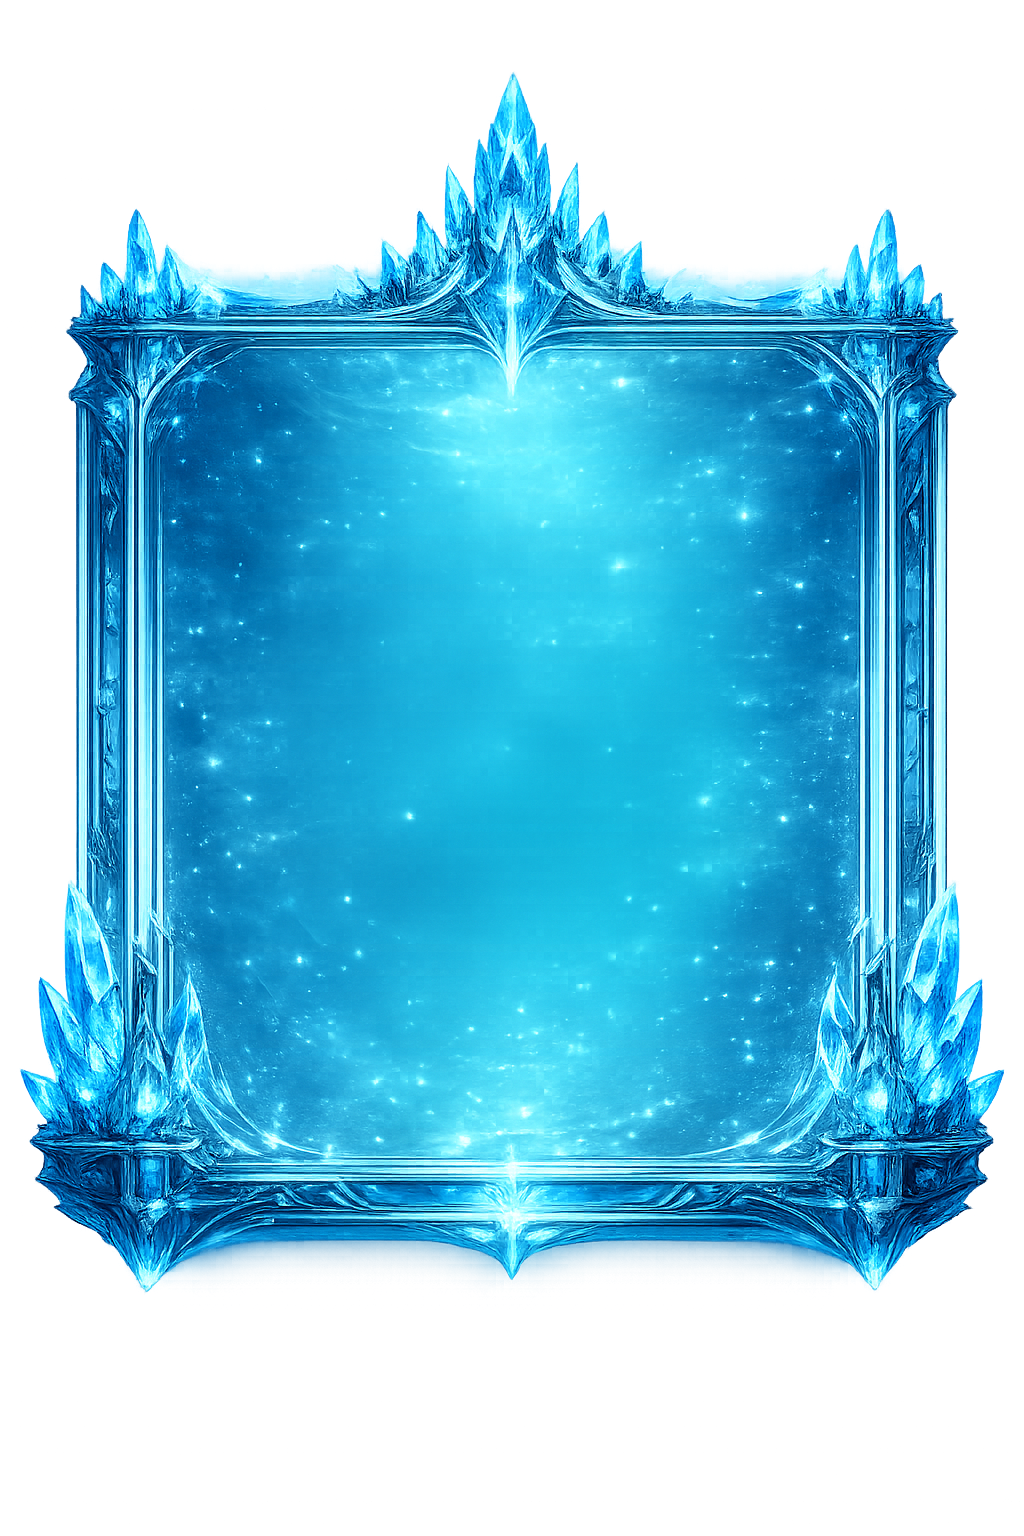
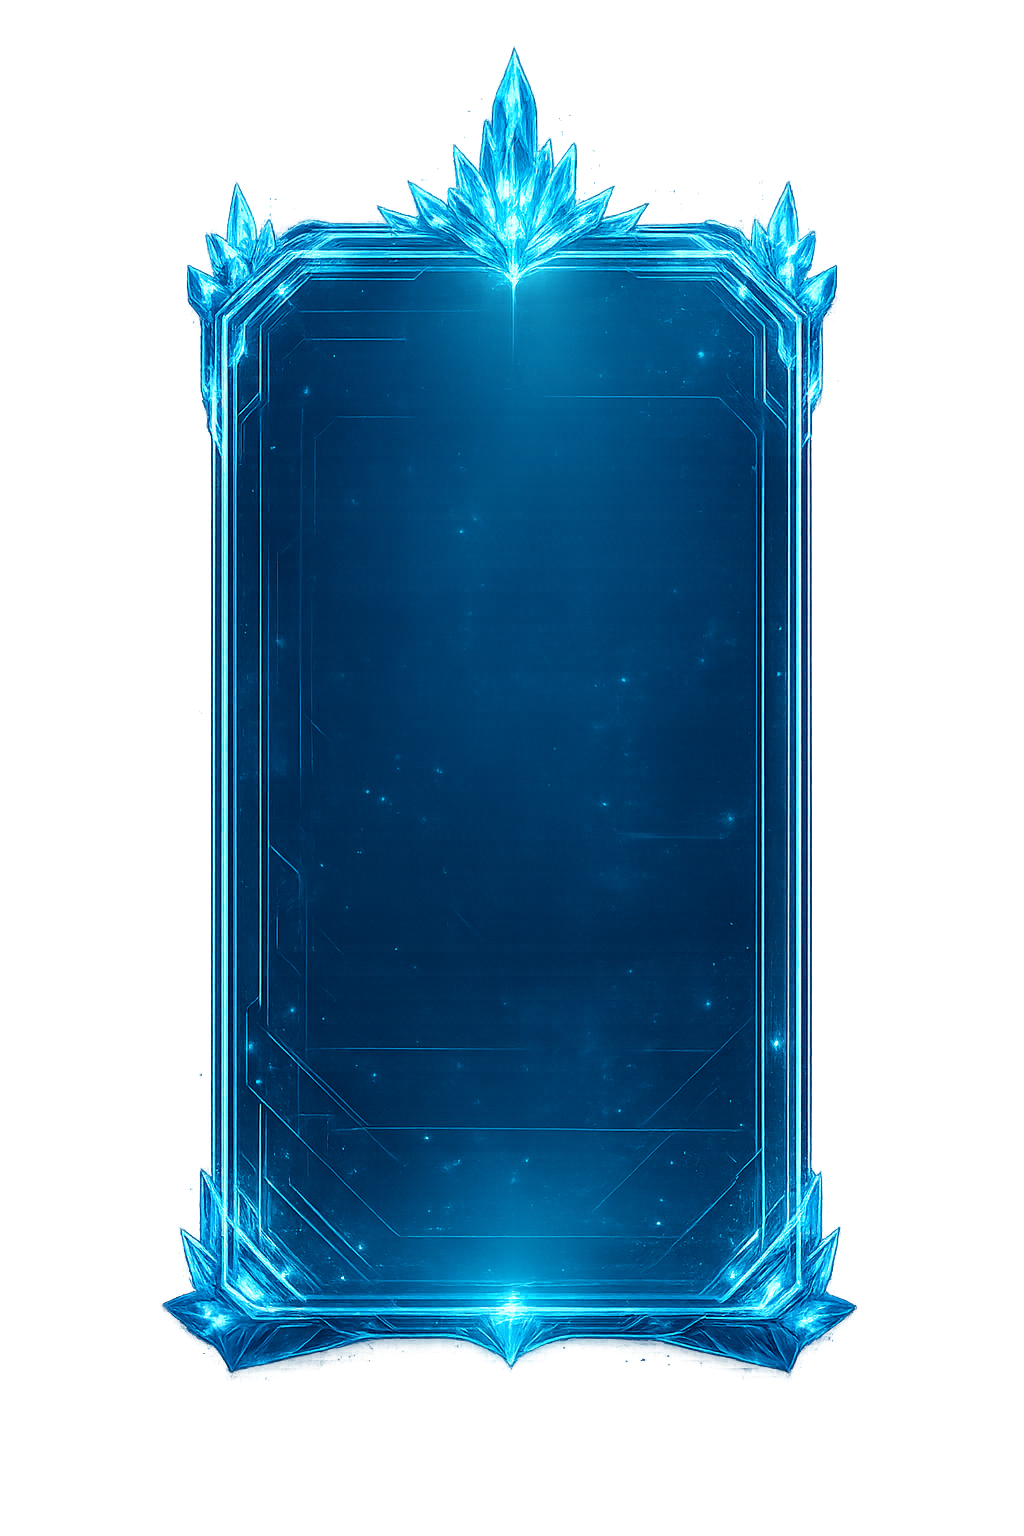
Variante portrait "circuit tech" reçue — les 6 fichiers de cadre sont à jour
Liamor a fait générer la variante portrait manquante (menu Réglages) +
une nouvelle passe des cadres larges, même style que le cadre standard.
Les 3 formats (portrait/large/standard, 2 factions) sont désormais tous
dans le même style visuel cohérent. Aucun changement de code : les
chargeurs relisent les fichiers par chemin à chaque session.

diff --git a/TODO_WOTOL.md b/TODO_WOTOL.md
@@ -1,5 +1,20 @@
 # TODO WOTOL — notes a appliquer au PROCHAIN changement
 
+## Variante PORTRAIT "circuit tech" recue (26/07/2026, suite) — les 4 cadres sont a jour
+
+Liamor a fait generer la variante PORTRAIT manquante via ChatGPT (meme style "circuit tech"
+que les cadres large/standard) + une nouvelle passe des cadres large. Les 6 fichiers cadres
+sont maintenant TOUS dans le meme style coherent :
+- `PanelFramePortraitAquiloris.png` / `PanelFramePortraitNoxeens.png` (1024x1536, nouveau,
+  comble le trou note dans l'entree precedente) -> `DrawPauseOverlay` (menu Reglages).
+- `PanelFrameWideAquiloris.png` / `PanelFrameWideNoxeens.png` (1536x1024, nouvelle passe) ->
+  `DrawControlsScreen` (ecran Commandes).
+- `PanelFrameAquiloris.png` / `PanelFrameNoxeens.png` (cadre STANDARD, meme resolution
+  1536x1024) -> reutilisent les memes fichiers que les cadres large (meme logique que l'entree
+  precedente), `DrawObjectiveWindow`/`DrawConfirmDialog`.
+Aucun changement de code necessaire (les chargeurs relisent le fichier par chemin a chaque
+session). Plus aucune incoherence de style entre les fenetres modales de la demo.
+
 ## Style "circuit tech" applique aussi au cadre STANDARD (26/07/2026, suite)
 
 Liamor a demande de regenerer le meme style (circuit tech, cf. entree precedente) en portrait
